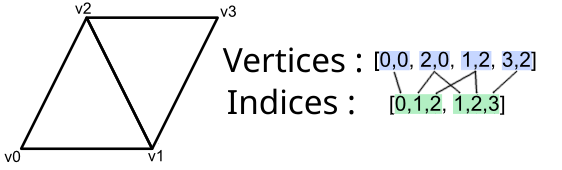
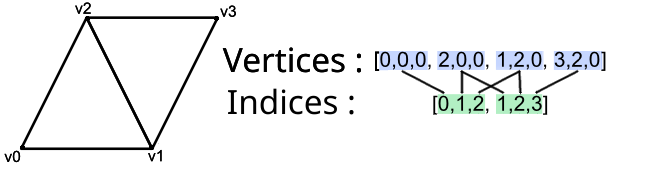
Modification Etape 2 - [x] LHA - Corriger la wommande W pour afficher toutes les lignes - [x] LHA - Point 1 : Changer l'image pour expliquer en 3D (ajouter un 'z' aux coordonnées) - [x] LHA - Point 1 : Afficher les axes 3D pour expliquer la règle de la main droite - [x] LHA - Point 2 : Changer l'ima
About #12 & #2

Changed region(s): [[0.0, 0.0, 0.968, 0.9706]]

diff --git a/presentation/server/public/presentation/demo_01_cube/zenibar.js b/presentation/server/public/presentation/demo_01_cube/zenibar.js
@@ -54,7 +54,7 @@ function initEvents(canvas) {
 
 function handleKeyDown(event) {
 	if (event.key.toUpperCase() === "W") {
-		drawMode = gl.LINES;
+		drawMode = gl.LINE_STRIP;
 	} else if (event.key.toUpperCase() === "T") {
 		drawMode = gl.TRIANGLES;
 	} else if (event.key.toUpperCase() === "P") {
@@ -115,7 +115,7 @@ function initBuffers(gl) {
 			-1.0, -1.0, -1.0,
 			-1.0, -1.0, 1.0,
 			-1.0, 1.0, 1.0,
-			-1.0, 1.0, -1.0
+			-1.0, 1.0, -1.0,
 		];
 
 		// Bind to the positionsBuffer
@@ -152,12 +152,12 @@ function initBuffers(gl) {
 	{
 		// indices of vertices for each face
 		const indices = [
-			0, 1, 2, 0, 2, 3,         // front
-			4, 5, 6, 4, 6, 7,         // back
-			8, 9, 10, 8, 10, 11,      // top
-			12, 13, 14, 12, 14, 15,   // bottom
-			16, 17, 18, 16, 18, 19,   // right
-			20, 21, 22, 20, 22, 23,   // left
+			 0,  1,  2,     0,  2,  3,   // front
+			 8,  9, 10,     8, 10, 11,   // top
+			 4,  5,  6,     4,  6,  7,   // back
+			16, 17, 18,    16, 18, 19,   // right
+			12, 13, 14,    12, 14, 15,   // bottom
+			20, 21, 22,    20, 22, 23,   // left
 		];
 
 		gl.bindBuffer(gl.ELEMENT_ARRAY_BUFFER, indicesBuffer);

diff --git a/presentation/server/public/presentation/demo_01_cube/2/index.html b/presentation/server/public/presentation/demo_01_cube/2/index.html
@@ -46,6 +46,7 @@
                 </p>
 
                 <h3>1. Définir la position des vertices :</h3>
+                <img src="../../assets/axes.png" height="400px" style="float: right; margin-right: 40px; margin-top: 15px;">
                 <pre class="prettyprint lang-js">
     // Buffer for the cube's vertices positions.
     const positionsBuffer = gl.createBuffer();

diff --git a/presentation/server/public/presentation/demo_01_cube/3/index.html b/presentation/server/public/presentation/demo_01_cube/3/index.html
@@ -52,7 +52,7 @@
 
     // indices of vertices for each face
     const indices = [
-        0, 1, 2,   0, 2, 3  // front face
+        0, 1, 2,   1, 2, 3  // front face
         ...
     ];
 
@@ -114,7 +114,7 @@
                 previousPage();
             }
         }
-        drawMode = 3; // gl.LINES
+        drawMode = 3; // gl.LINE_STRIP
     </script>
     
 </body>
